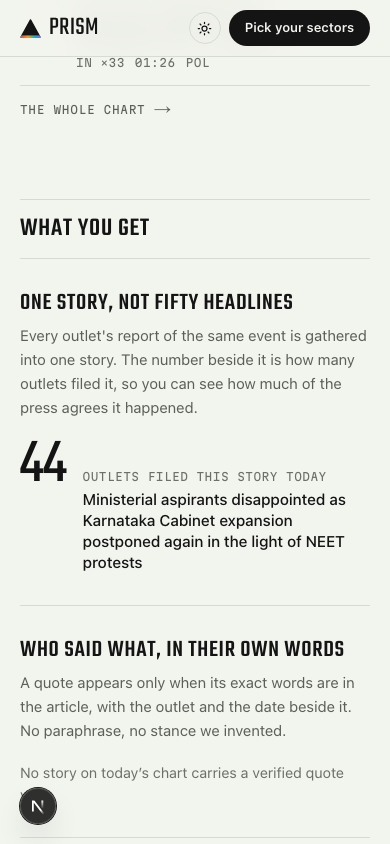
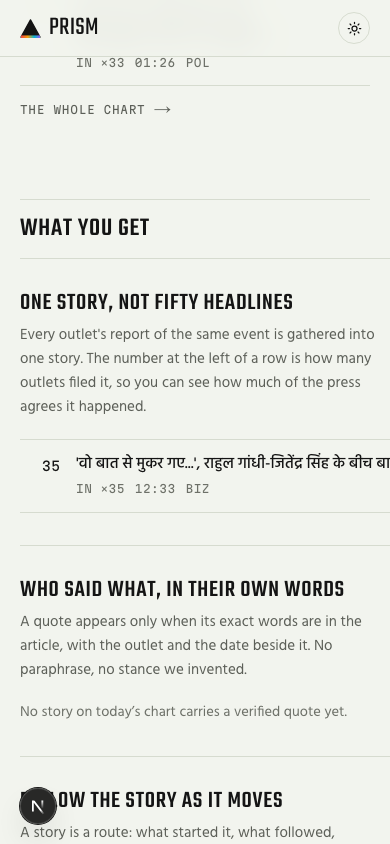
fix(design): the reading voice was never loading; and the landing review's eight fixes
The finish reviewer of the rebuilt landing noticed the h1 was not Hind.
It was not: next/font sets --font-hind on <body>, and globals.css declared
--font-ui on :root from it; a custom property resolves where it is declared,
so --font-ui computed to nothing and body's font-family fell back to
Tailwind's sans stack. Every reading-voice line on every page has rendered
in the system sans since the foundation commit (c244aa6). --font-ui now
lives in the body block; verified in the browser and pinned by a test that
fails if it moves back.

The landing's other fixes: the demo's label grid sits beneath its headline
without an invented count; the reads still being built flip in the neutral
scale (the world has three lens hues); the header carries no pill on the
landing so the hero's action is the page's one; a route is shown only with
three or more developments on the spine (test + mutation), and its caption
is prose in the reading voice; the count cell is a real ChartRow; the cyber
bullet is plain words; the embedded sector strip keeps its names at every
width.

diff --git a/web/src/app/about/page.test.tsx b/web/src/app/about/page.test.tsx
@@ -42,10 +42,14 @@ describe("/about — the product as the proof, live", () => {
     );
     render(await AboutPage());
 
-    // The count cell: the nine-outlet story leads, by the chart's order, not the API's.
+    // The chart rows: the nine-outlet story leads, by the chart's order, not the API's.
+    const rows = screen.getByRole("heading", { name: "Today's chart" }).parentElement!.parentElement!;
+    const links = within(rows).getAllByRole("link", { name: /Story/ });
+    expect(links[0]).toHaveAttribute("href", "/story/strong");
+    // The count cell shows the feature in the row's own grammar: a real row with its count.
     const count = screen.getByRole("heading", { name: "One story, not fifty headlines" }).parentElement!;
-    expect(within(count).getByText("9")).toBeInTheDocument();
-    expect(within(count).getByRole("link", { name: "Story strong" })).toHaveAttribute("href", "/story/strong");
+    expect(within(count).getByRole("link", { name: /Story quoted/ })).toHaveAttribute("href", "/story/quoted");
+    expect(within(count).getByLabelText("2 sources")).toBeInTheDocument();
     // The quote cell comes from a story that HAS quotes, even if it is not the lead.
     const said = screen.getByRole("heading", { name: "Who said what, in their own words" }).parentElement!;
     expect(within(said).getByText("“We were receiving proposals”")).toBeInTheDocument();
@@ -58,11 +62,30 @@ describe("/about — the product as the proof, live", () => {
     fetchFeed.mockResolvedValue([item("cve", 40), item("poll", 5)].map((i, n) => ({ ...i, sector: n === 0 ? "cybersecurity" : "politics" })));
     fetchEvent.mockImplementation(async (id: string) => event(id));
     render(await AboutPage());
-    expect(screen.queryByRole("link", { name: "Story cve" })).toBeNull();
-    expect(screen.getAllByRole("link", { name: "Story poll" }).length).toBeGreaterThan(0);
+    expect(screen.queryByRole("link", { name: /Story cve/ })).toBeNull();
+    expect(screen.getAllByRole("link", { name: /Story poll/ }).length).toBeGreaterThan(0);
   });
 
   it("renders the route from the owner of the arc when a story carries a tree", async () => {
+    fetchFeed.mockResolvedValue([item("e1", 4)]);
+    fetchEvent.mockResolvedValue(event("e1", { story_slug: "s" }));
+    fetchTrendingStory.mockResolvedValue({
+      slug: "s", canonical_slug: "s", label: "L", cast: [], sector: null, source_count: 4, velocity: 0, status: "active", timeline_cast: [],
+      developments: [
+        { id: "e0", title: "How it started", sector: null, occurred_at: "2026-09-01T00:00:00Z", image_url: null, is_current: false, why: null },
+        { id: "e1", title: "Story e1", sector: null, occurred_at: "2026-09-03T00:00:00Z", image_url: null, is_current: false, why: null },
+        { id: "e2", title: "What followed", sector: null, occurred_at: "2026-09-04T00:00:00Z", image_url: null, is_current: false, why: null },
+      ],
+      // Three on the spine: a route with fewer shows no route, so the landing skips it.
+      branches: { root_id: "e0", nodes: [{ id: "e0", parent_id: null, off_spine: false, depth: 0 }, { id: "e1", parent_id: "e0", off_spine: false, depth: 1 }, { id: "e2", parent_id: "e1", off_spine: false, depth: 2 }], shape: { developments: 3, branches: 0, satellites: 0, max_depth: 2 } },
+    });
+    render(await AboutPage());
+    expect(fetchTrendingStory).toHaveBeenCalledWith("s");
+    expect(screen.getByRole("heading", { name: "Follow the story as it moves" })).toBeInTheDocument();
+    expect(screen.getByText(/3 DEVELOPMENTS · 0 BRANCHES · 0 SATELLITES · 4 DAYS/)).toBeInTheDocument();
+  });
+
+  it("skips the route when a story has fewer than three developments on the spine", async () => {
     fetchFeed.mockResolvedValue([item("e1", 4)]);
     fetchEvent.mockResolvedValue(event("e1", { story_slug: "s" }));
     fetchTrendingStory.mockResolvedValue({
@@ -74,9 +97,7 @@ describe("/about — the product as the proof, live", () => {
       branches: { root_id: "e0", nodes: [{ id: "e0", parent_id: null, off_spine: false, depth: 0 }, { id: "e1", parent_id: "e0", off_spine: false, depth: 1 }], shape: { developments: 2, branches: 0, satellites: 0, max_depth: 1 } },
     });
     render(await AboutPage());
-    expect(fetchTrendingStory).toHaveBeenCalledWith("s");
-    expect(screen.getByRole("heading", { name: "Follow the story as it moves" })).toBeInTheDocument();
-    expect(screen.getByText(/2 DEVELOPMENTS · 0 BRANCHES · 0 SATELLITES · 3 DAYS/)).toBeInTheDocument();
+    expect(screen.queryByRole("heading", { name: "Follow the story as it moves" })).toBeNull();
   });
 
   it("says the chart is unreachable rather than showing an empty or made-up proof", async () => {

diff --git a/web/src/components/Landing.tsx b/web/src/components/Landing.tsx
@@ -37,8 +37,8 @@ type Evidence = {
 /**
  * Today's chart as a general reader meets it: the window, minus the cyber
  * record, most-corroborated first. Then, from the top sixteen, the first story
- * with a verbatim quote, and from the top eight the first with a route of two
- * or more developments. A proof the chart cannot supply is absent, never invented.
+ * with a verbatim quote, and from the top eight the first with a route of three
+ * or more developments on the spine. A proof the chart cannot supply is absent, never invented.
  */
 async function loadEvidence(): Promise<Evidence | null> {
   try {
@@ -51,7 +51,8 @@ async function loadEvidence(): Promise<Evidence | null> {
     for (const event of events.slice(0, 8)) {
       if (!event.story_slug) continue;
       const story = await fetchTrendingStory(event.story_slug).catch(() => null);
-      if (story?.branches && story.branches.nodes.length >= 2) {
+      // Three on the spine, at least: a route with one station shows no route.
+      if (story?.branches && story.branches.nodes.filter((n) => !n.off_spine).length >= 3) {
         route = { event, story };
         break;
       }
@@ -97,7 +98,7 @@ const NEXT: [string, string][] = [
 ];
 
 const READER = ["Today's chart, every story, every subject", "Every quote, verbatim, with its source", "The route a story took", "Ask the story, three questions a day"];
-const PRO = ["Your profession's reading of every story", "Tickers and catalysts on the stories that move markets", "CVEs, exploitation and fixes on the stories that expose you", "A watchlist of what you follow"];
+const PRO = ["Your profession's reading of every story", "Tickers and catalysts on the stories that move markets", "Which systems a security story exposes, and what to fix first", "A watchlist of what you follow"];
 
 export async function Landing() {
   const ev = await loadEvidence();
@@ -151,15 +152,11 @@ export async function Landing() {
       <section id="what-you-get" className={`${SHELL} mt-16 scroll-mt-20`} aria-labelledby="get-title">
         <SectionHead id="get-title" title="What you get" />
         <div className="grid lg:grid-cols-2 lg:gap-x-14">
-          <Cell title="One story, not fifty headlines" body="Every outlet's report of the same event is gathered into one story. The number beside it is how many outlets filed it, so you can see how much of the press agrees it happened.">
+          <Cell title="One story, not fifty headlines" body="Every outlet's report of the same event is gathered into one story. The number at the left of a row is how many outlets filed it, so you can see how much of the press agrees it happened.">
             {lead ? (
-              <div className="flex items-baseline gap-4">
-                <span className="font-display text-[64px] leading-[0.85] tabular-nums">{lead.source_count}</span>
-                <div className="min-w-0">
-                  <p className="font-mono text-[11px] uppercase tracking-[0.04em]" style={{ color: "var(--ink-faint)" }}>outlets filed this story today</p>
-                  <Link href={`/story/${lead.id}`} className="mt-1 block text-[15.5px] font-medium leading-[1.35] underline-offset-4 hover:underline">{lead.title}</Link>
-                </div>
-              </div>
+              <ol className="border-b" style={{ borderColor: "var(--line)" }}>
+                <ChartRow item={ev?.rows[1] ?? lead} />
+              </ol>
             ) : (
               <p className="text-[14.5px]" style={{ color: "var(--ink-faint)" }}>Today&rsquo;s count appears here when the chart is reachable.</p>
             )}
@@ -221,7 +218,7 @@ export async function Landing() {
           </Cell>
 
           <Cell wide title="Six subjects, your state first" body="Politics to entertainment on one strip, on every page. Tell us your state and its news leads the chart; follow a subject and For you appears.">
-            <div className="[&_nav]:static [&_nav]:border-b-0">
+            <div className="[&_nav]:static [&_nav]:border-b-0 [&_nav_a>span:last-child]:!inline">
               <SectorStrip active={null} allHref="/feed" allLabel="Today" />
             </div>
           </Cell>

diff --git a/web/src/components/HeroLensDemo.tsx b/web/src/components/HeroLensDemo.tsx
@@ -22,7 +22,9 @@ interface HeroLens {
 }
 
 const HEADLINE = "Delhi bans diesel cars older than ten years from Monday";
-const FACTS = "POL · 31 outlets · IN";
+// The row's label grid, beneath the headline as on the chart; no count, because
+// a number inside an illustration reads as a fact two sections from a real one.
+const GRID = "POL · IN";
 
 const LENSES: HeroLens[] = [
   {
@@ -43,11 +45,13 @@ const LENSES: HeroLens[] = [
     brief:
       "A forced replacement cycle for the capital: carmakers with petrol and CNG line-ups gain, used-car platforms lose diesel inventory overnight, and scrappage yards get a quarter of volume. Watch dealer bookings and the rebate's fine print.",
   },
+  // The reads still being built flip in the neutral scale: a lens has a hue
+  // once it exists as a lens, and the world has three.
   {
     key: "health",
     label: "Health",
-    color: "#be123c",
-    bg: "color-mix(in srgb, #be123c 14%, transparent)",
+    color: "var(--ink)",
+    bg: "var(--bg-sunken)",
     next: true,
     plain: "what changes for patients and clinicians",
     brief:
@@ -56,8 +60,8 @@ const LENSES: HeroLens[] = [
   {
     key: "policy",
     label: "Policy",
-    color: "#0369a1",
-    bg: "color-mix(in srgb, #0369a1 14%, transparent)",
+    color: "var(--ink)",
+    bg: "var(--bg-sunken)",
     next: true,
     plain: "what precedent this sets",
     brief:
@@ -87,9 +91,9 @@ export function HeroLensDemo({
       </div>
 
       <div className="px-5 pt-5">
-        <p className="font-mono text-[11px] uppercase tracking-[0.04em]" style={{ color: "var(--ink-faint)" }}>{FACTS}</p>
         {/* A paragraph, not a heading: the demo sits inside the hero and must not break the page's outline. */}
-        <p className="mt-1.5 text-[21px] font-medium leading-[1.3] text-balance sm:text-[23px]">{HEADLINE}</p>
+        <p className="text-[21px] font-medium leading-[1.3] text-balance sm:text-[23px]">{HEADLINE}</p>
+        <p className="mt-1.5 font-mono text-[11px] uppercase tracking-[0.04em]" style={{ color: "var(--ink-faint)" }}>{GRID}</p>
       </div>
 
       <div className="flex flex-wrap gap-1.5 px-5 pt-4" role="tablist" aria-label="Lens">

diff --git a/web/src/app/globals.css b/web/src/app/globals.css
@@ -34,11 +34,6 @@
   --ink-faint: #6d7068;
   --line: #d6dbcf;
   --line-strong: #b9c0b1;
-  /* The reading voice: Hind, then its script siblings. The browser falls
-     through per glyph, so Kannada in a Latin headline takes Hind Mysuru with
-     the same skeleton — one family, six scripts, no fallback seam. */
-  --font-ui: var(--font-hind), var(--font-hind-kn), var(--font-hind-ta), var(--font-hind-te),
-    system-ui, sans-serif;
 
   --lens-general: #b45309; /* amber-700 */
   --lens-cyber: #0e7490; /* cyan-700 */
@@ -137,6 +132,16 @@ html {
 }
 
 body {
+  /* The reading voice: Hind, then its script siblings. The browser falls
+     through per glyph, so Kannada in a Latin headline takes Hind Mysuru with
+     the same skeleton — one family, six scripts, no fallback seam.
+     Defined HERE, not on :root: next/font sets --font-hind and its siblings on
+     <body>, and a custom property is resolved where it is declared, so a
+     :root --font-ui that referenced them computed to nothing and every
+     reading-voice line fell back to the system sans (found by the finish
+     review of the landing, 2026-09-17). */
+  --font-ui: var(--font-hind), var(--font-hind-kn), var(--font-hind-ta), var(--font-hind-te),
+    system-ui, sans-serif;
   background: var(--bg);
   color: var(--ink);
   font-family: var(--font-ui);

diff --git a/web/src/app/globals.css.test.ts b/web/src/app/globals.css.test.ts
@@ -1,0 +1,22 @@
+import { readFileSync } from "node:fs";
+import path from "node:path";
+import { describe, expect, it } from "vitest";
+
+// next/font sets --font-hind and its siblings on <body>. A custom property is
+// resolved where it is declared, so a :root --font-ui that references them
+// computes to nothing and every reading-voice line silently falls back to the
+// system sans. It shipped that way for two days; this pins the declaration to
+// the body block.
+describe("globals.css — the reading voice resolves", () => {
+  const css = readFileSync(path.resolve(__dirname, "globals.css"), "utf8");
+  const bodyBlock = css.slice(css.indexOf("\nbody {"), css.indexOf("}", css.indexOf("\nbody {")));
+
+  it("declares --font-ui inside body, where next/font puts --font-hind", () => {
+    expect(bodyBlock).toMatch(/--font-ui:\s*var\(--font-hind\)/);
+  });
+
+  it("does not declare --font-ui on :root", () => {
+    const root = css.slice(css.indexOf(":root {"), css.indexOf("\n}", css.indexOf(":root {")));
+    expect(root).not.toMatch(/--font-ui:/);
+  });
+});

diff --git a/web/src/components/HeaderNav.tsx b/web/src/components/HeaderNav.tsx
@@ -15,6 +15,9 @@ const NAV = [
 export function HeaderNav() {
   const pathname = usePathname();
   const session = useSession();
+  // The landing has its own one action ("Read today's chart"); a second
+  // filled pill in the same viewport is one more than the world allows.
+  const landing = pathname === "/" || pathname === "/about";
 
   const active = (href: string) =>
     href === "/feed"
@@ -68,7 +71,7 @@ export function HeaderNav() {
         >
           {session.email.slice(0, 1)}
         </Link>
-      ) : (
+      ) : landing ? null : (
         <Link
           href="/onboarding"
           className="whitespace-nowrap rounded-full px-4 py-2 text-[13px] font-semibold transition hover:opacity-85 sm:px-[18px]"

diff --git a/web/src/components/BranchTree.tsx b/web/src/components/BranchTree.tsx
@@ -383,7 +383,7 @@ export function BranchTree({ tree, developments, currentId = null }: Props) {
       </div>
 
       <p
-        className="max-w-[40em] px-1 pb-5 pt-3.5 font-mono text-[12px] leading-[1.7] tracking-[0.02em]"
+        className="max-w-[44ch] px-1 pb-5 pt-3.5 text-[12.5px] leading-[1.6]"
         style={{ color: "var(--ink-faint)" }}
       >
         Root is the most-corroborated development; every other attaches forward in time
